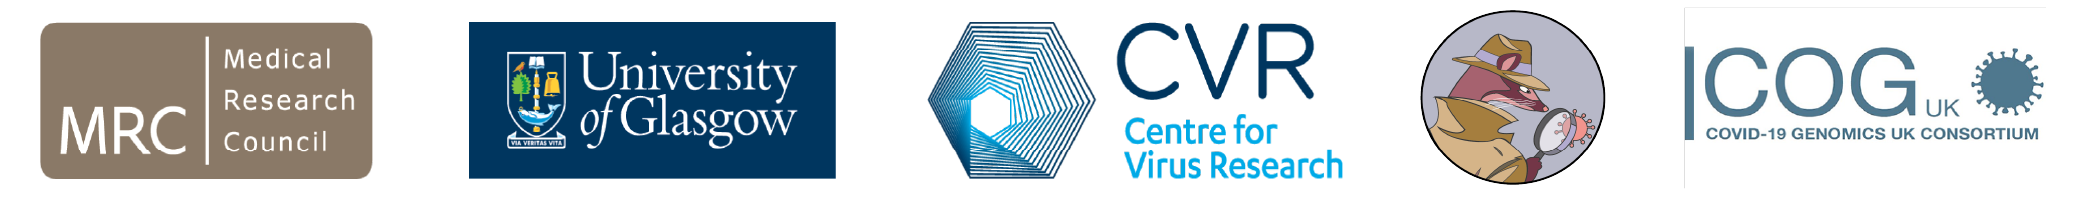
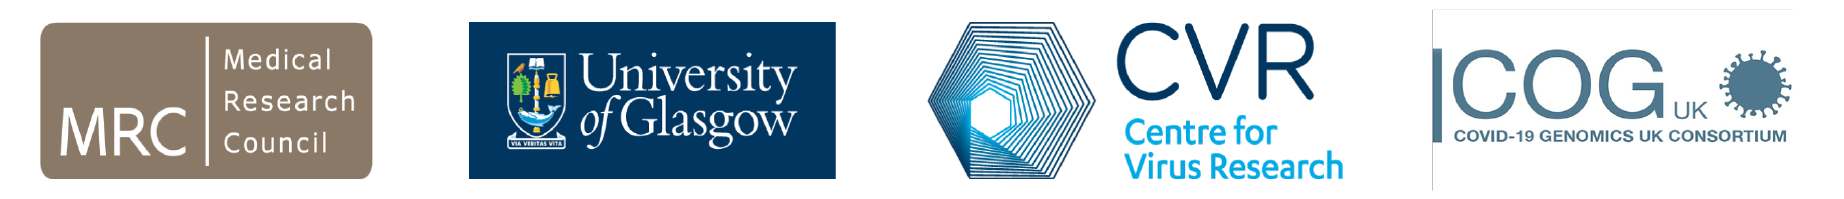
changed headers, added footer

diff --git a/civet/command.py b/civet/command.py
@@ -373,6 +373,7 @@ To run civet please either\n1) ssh into CLIMB and run with --CLIMB flag\n\
     # accessing package data and adding to config dict
     reference_fasta = pkg_resources.resource_filename('civet', 'data/reference.fasta')
     polytomy_figure = pkg_resources.resource_filename('civet', 'data/polytomies.png')
+    footer_fig = pkg_resources.resource_filename('civet', 'data/footer.png')
     clean_locs = pkg_resources.resource_filename('civet', 'data/mapping_files/adm2_cleaning.csv')
     map_input_1 = pkg_resources.resource_filename('civet', 'data/mapping_files/gadm36_GBR_2.json')
     map_input_2 = pkg_resources.resource_filename('civet', 'data/mapping_files/channel_islands.json')  
@@ -386,6 +387,7 @@ To run civet please either\n1) ssh into CLIMB and run with --CLIMB flag\n\
 
     config["reference_fasta"] = reference_fasta
     config["polytomy_figure"] = polytomy_figure
+    config["footer"] = footer_fig
     config["report_template"] = report_template
     config["clean_locs"] = clean_locs
     config["uk_map"] = map_input_1

diff --git a/setup.py b/setup.py
@@ -48,6 +48,7 @@ setup(name='civet',
                              "data/headers/PORT.png",
                              "data/headers/SANG.png",
                              "data/headers/SHEF.png",
+                             "data/footer.png",
                              "data/mapping_files/adm2_cleaning.csv",
                              "data/mapping_files/gadm36_GBR_2.json",
                              "data/mapping_files/NI_counties.geojson",
